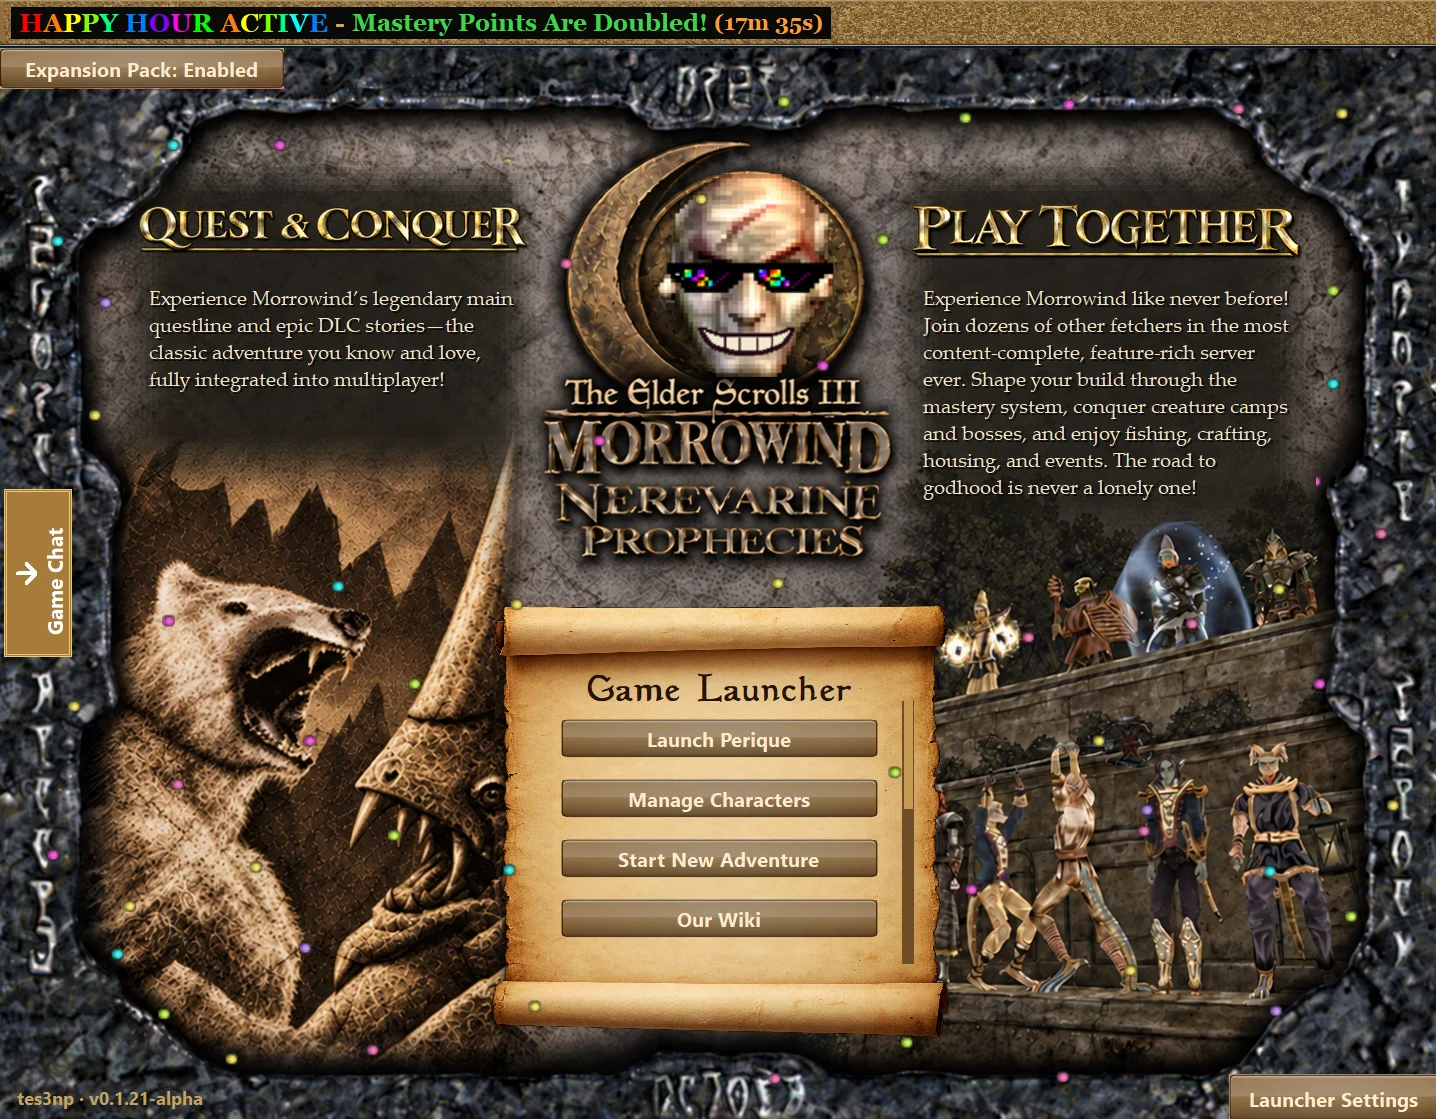
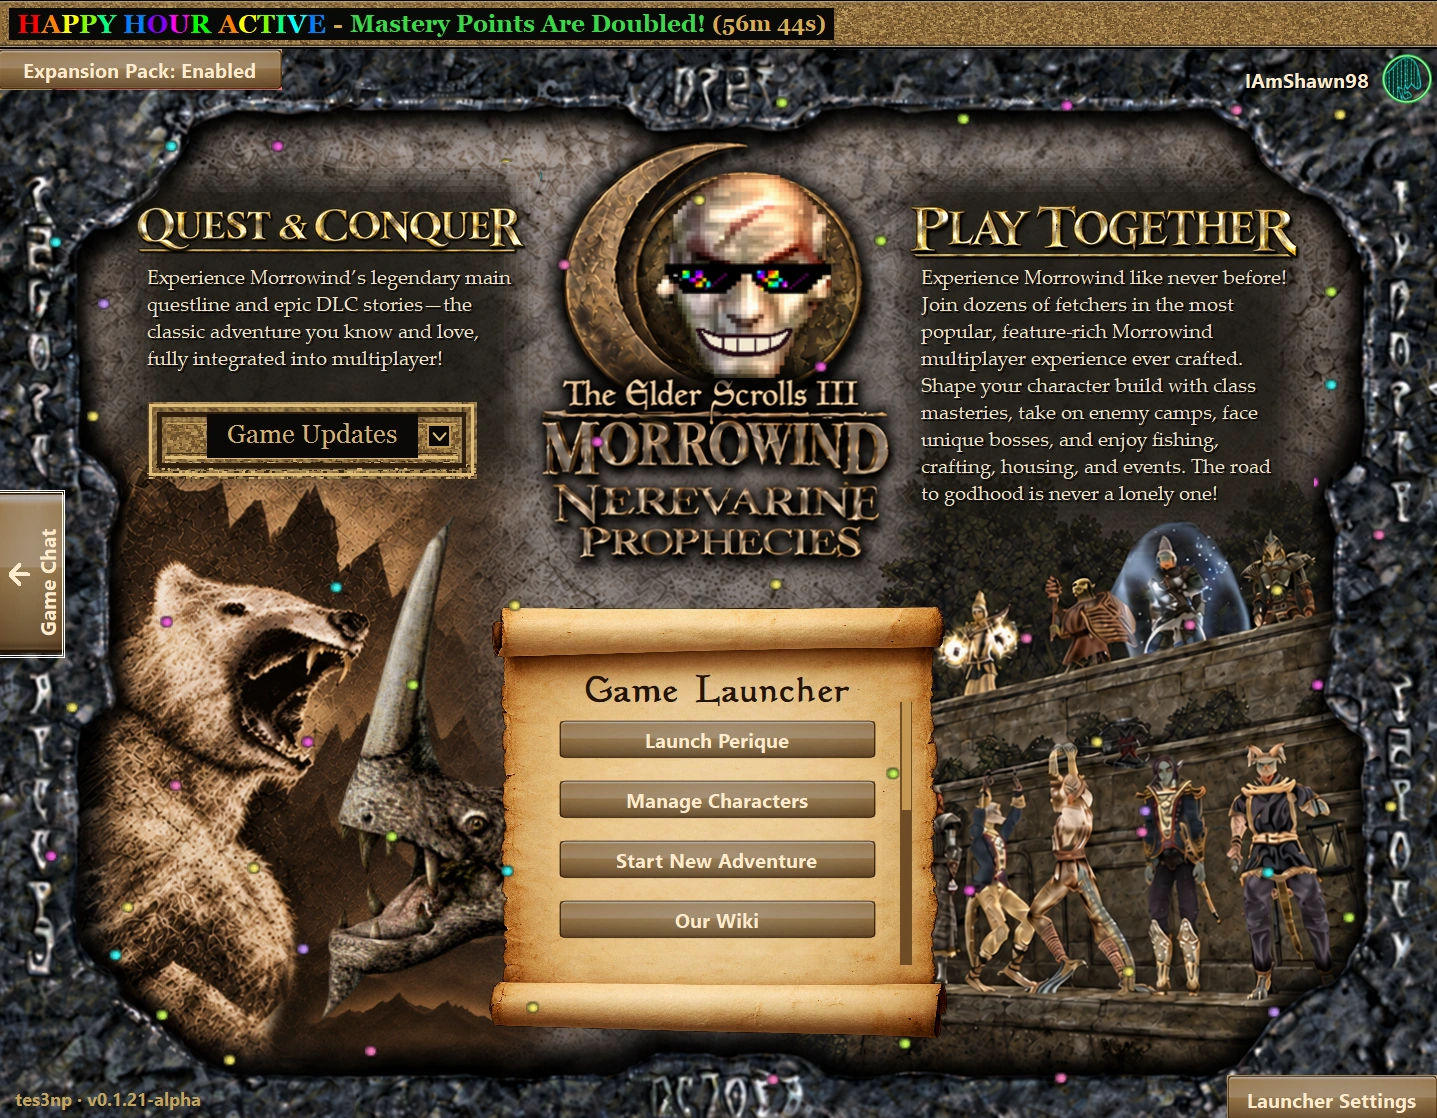
Refresh launcher screenshots on the website

diff --git a/index.html b/index.html
@@ -31,7 +31,7 @@
     <figure class="gallery" id="screenshots" role="region" aria-roledescription="carousel" aria-label="TES3NP screenshots">
       <div class="slides">
         <div class="slide" data-title="Launcher and Live Game Chat" data-version="v0.1.21-alpha" role="group" aria-roledescription="slide" aria-label="1 of 8">
-          <img src="./assets/launcher.webp" width="1882" height="1075" alt="TES3NP home screen with the Live Game Chat panel open beside the launcher.">
+          <img src="./assets/launcher.webp" width="1876" height="1069" alt="TES3NP home screen with the Live Game Chat panel open beside the launcher.">
         </div>
         <div class="slide" data-title="Manage Characters and Macros" data-version="v0.1.21-alpha" role="group" aria-roledescription="slide" aria-label="2 of 8" hidden>
           <img src="./assets/manage-characters.webp" width="1436" height="1077" alt="The Manage Characters page alongside the macro manager on a parchment book.">
@@ -40,10 +40,10 @@
           <img src="./assets/auto-login.webp" width="1779" height="1335" alt="The TES3NP login progress window over the Morrowind loading screen.">
         </div>
         <div class="slide" data-title="Happy Hour" data-version="v0.1.21-alpha" role="group" aria-roledescription="slide" aria-label="4 of 8" hidden>
-          <img src="./assets/happy-hour.webp" width="1436" height="1119" alt="The launcher during Happy Hour with a banner showing the doubled mastery points and time remaining.">
+          <img src="./assets/happy-hour.webp" width="1437" height="1118" alt="The launcher during Happy Hour with a banner showing the doubled mastery points and time remaining.">
         </div>
         <div class="slide" data-title="Discord Integration" data-version="v0.1.21-alpha" role="group" aria-roledescription="slide" aria-label="5 of 8" hidden>
-          <img src="./assets/discord.webp" width="1959" height="1070" alt="The launcher’s Discord sign-in panel with its integration features listed.">
+          <img src="./assets/discord.webp" width="1959" height="1072" alt="The launcher’s Discord sign-in panel with its integration features listed.">
         </div>
         <div class="slide" data-title="Install Expansion Pack" data-version="v0.1.21-alpha" role="group" aria-roledescription="slide" aria-label="6 of 8" hidden>
           <img src="./assets/expansion-pack.webp" width="1431" height="1067" alt="A launcher dialog offering to download and install the latest expansion pack.">
